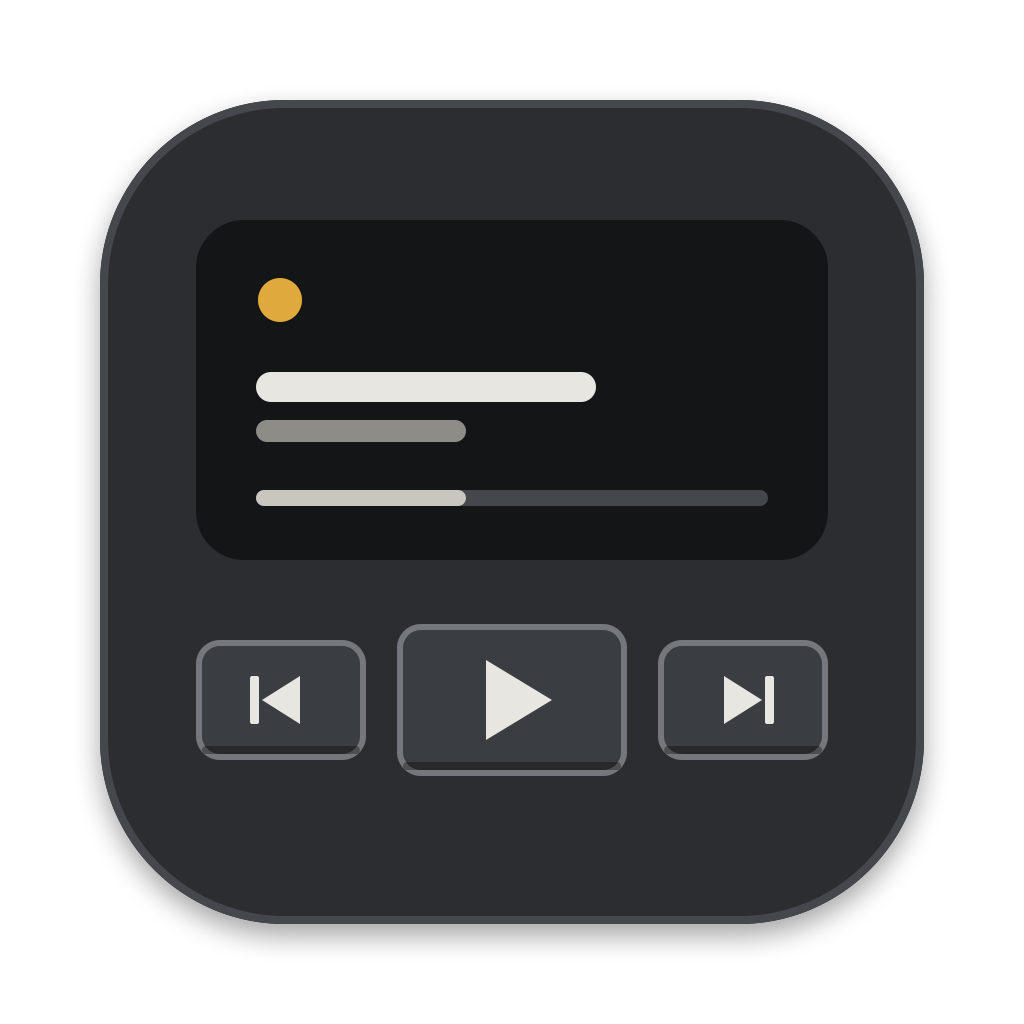
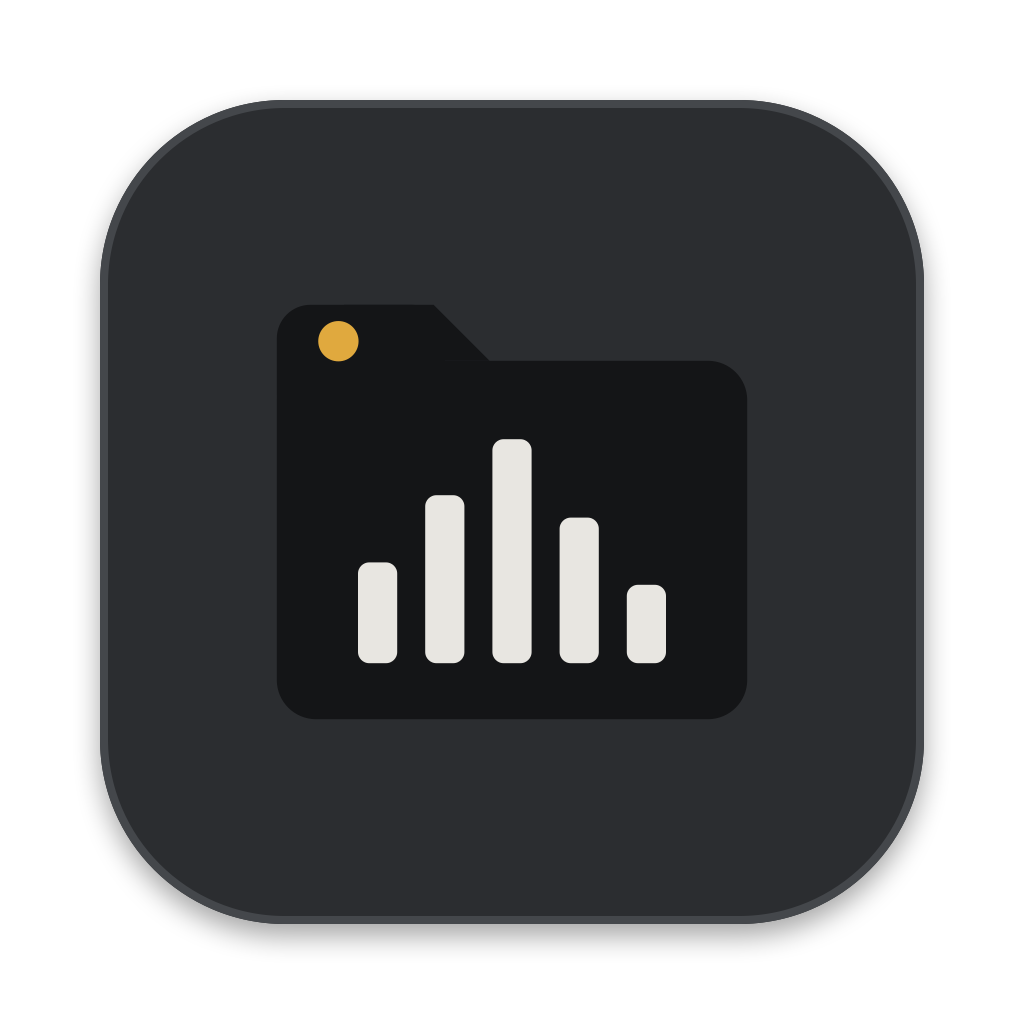
Ícone e logótipo novos: pasta com VU
O ícone passa a ser a pasta com medidor de VU e LED âmbar (proposta C).
make-icons.swift ganha a variante folder (por omissão) e gera o
logótipo com NuVa em IBM Plex Mono, em contornos, para fundo Chumbo e
Alumínio.

Changed region(s): [[0.1875, 0.1875, 0.8125, 0.75], [0.4062, 0.75, 0.5938, 0.7812]]

diff --git a/scripts/make-icons.swift b/scripts/make-icons.swift
@@ -1,12 +1,13 @@
 // Gera o ícone da NuVa a partir das mesmas medidas: PNG (CoreGraphics) e SVG.
-// Uso: swift scripts/make-icons.swift <pasta-de-saída> [variante: device|display|key]
+// Uso: swift scripts/make-icons.swift <pasta-de-saída> [variante: folder|device|display|key] [--all]
+// Corre na raiz do repositório: o logótipo usa Resources/Fonts/IBMPlexMono-Medium.ttf.
 // Cores de docs/design-system/tokens.json (tema Chumbo).
 import AppKit
 import Foundation
 
 let args = CommandLine.arguments
 let out = URL(fileURLWithPath: args.count > 1 ? args[1] : "icon-out")
-let variant = args.count > 2 ? args[2] : "device"
+let variant = args.count > 2 && !args[2].hasPrefix("--") ? args[2] : "folder"
 try? FileManager.default.createDirectory(at: out, withIntermediateDirectories: true)
 
 struct C { static let surface0 = "#1E2023", surface1 = "#2B2D30", display = "#141517", displayInk = "#E8E6E1",
@@ -23,9 +24,50 @@ enum Shape {
 /// Grelha dos ícones do macOS: corpo de 824 com raio 185, centrado em 1024.
 let body = (x: 100.0, y: 100.0, w: 824.0, h: 824.0, r: 185.0)
 
+/// Pasta com medidor de VU, em coordenadas de 0 a 100. A versão pequena tem menos barras e um LED maior.
+func folderGlyph(small: Bool) -> [Shape] {
+    if small {
+        return [
+            .rect(x: 8, y: 12, w: 30, h: 24, r: 7, fill: C.display),
+            .triangle([(20, 12), (38, 12), (50, 24), (20, 24)], fill: C.display),
+            .rect(x: 8, y: 22, w: 84, h: 66, r: 8, fill: C.display),
+            .circle(cx: 21, cy: 20, r: 5.5, fill: C.signal),
+            .rect(x: 20, y: 52, w: 14, h: 26, r: 3, fill: C.displayInk),
+            .rect(x: 43, y: 38, w: 14, h: 40, r: 3, fill: C.displayInk),
+            .rect(x: 66, y: 56, w: 14, h: 22, r: 3, fill: C.displayInk),
+        ]
+    }
+    let bars: [(x: Double, h: Double)] = [(22.5, 18), (34.5, 30), (46.5, 40), (58.5, 26), (70.5, 14)]
+    return [
+        .rect(x: 8, y: 14, w: 30, h: 22, r: 6, fill: C.display),
+        .triangle([(20, 14), (36, 14), (46, 24), (20, 24)], fill: C.display),
+        .rect(x: 8, y: 24, w: 84, h: 64, r: 7, fill: C.display),
+        .circle(cx: 19, cy: 20.5, r: 3.6, fill: C.signal),
+    ] + bars.map { .rect(x: $0.x, y: 78 - $0.h, w: 7, h: $0.h, r: 2, fill: C.displayInk) }
+}
+
+/// Escala e desloca formas de 0–100 para o ícone.
+func place(_ shapes: [Shape], x: Double, y: Double, k: Double) -> [Shape] {
+    func r2(_ v: Double) -> Double { (v * 100).rounded() / 100 }
+    return shapes.map {
+        switch $0 {
+        case let .rect(rx, ry, w, h, r, fill, stroke, sw):
+            return .rect(x: r2(x + rx * k), y: r2(y + ry * k), w: r2(w * k), h: r2(h * k), r: r2(r * k), fill: fill, stroke: stroke, sw: r2(sw * k))
+        case let .circle(cx, cy, r, fill):
+            return .circle(cx: r2(x + cx * k), cy: r2(y + cy * k), r: r2(r * k), fill: fill)
+        case let .triangle(points, fill):
+            return .triangle(points.map { (r2(x + $0.0 * k), r2(y + $0.1 * k)) }, fill: fill)
+        }
+    }
+}
+
 func shapes(small: Bool) -> [Shape] {
     var s: [Shape] = [.rect(x: body.x, y: body.y, w: body.w, h: body.h, r: body.r, fill: C.surface1, stroke: C.line, sw: 8)]
     switch variant {
+    case "folder":
+        // Pasta com VU, centrada no corpo. Em 16 e 32 px, a versão simplificada e maior.
+        s += small ? place(folderGlyph(small: true), x: 192, y: 192, k: 6.4)
+                   : place(folderGlyph(small: false), x: 232, y: 226.4, k: 5.6)
     case "display":
         // Só o display, grande, com LED e barra.
         s += [
@@ -43,7 +85,7 @@ func shapes(small: Bool) -> [Shape] {
             .rect(x: 272, y: 744, w: 480, h: 12, r: 6, fill: "#00000059"),
             .triangle([(450, 452), (450, 672), (632, 562)], fill: C.ink),
         ]
-    default:
+    default:  // "device"
         // Frente do aparelho: display com LED, título e progresso; três teclas por baixo.
         if small {
             s += [
@@ -128,12 +170,13 @@ func png(_ px: Int, name: String, shadow: Bool = true) {
     try! rep.representation(using: .png, properties: [:])!.write(to: out.appendingPathComponent(name))
 }
 
-func svg(small: Bool) -> String {
-    func fillAttr(_ hex: String) -> String {
-        hex.count == 9 ? "fill=\"\(hex.prefix(7))\" fill-opacity=\"\(String(format: "%.2f", Double(UInt8(hex.suffix(2), radix: 16)!) / 255))\"" : "fill=\"\(hex)\""
-    }
+func fillAttr(_ hex: String) -> String {
+    hex.count == 9 ? "fill=\"\(hex.prefix(7))\" fill-opacity=\"\(String(format: "%.2f", Double(UInt8(hex.suffix(2), radix: 16)!) / 255))\"" : "fill=\"\(hex)\""
+}
+
+func svgElements(_ shapes: [Shape], small: Bool) -> String {
     var body = ""
-    for (i, shape) in shapes(small: small).enumerated() {
+    for (i, shape) in shapes.enumerated() {
         switch shape {
         case let .rect(x, y, w, h, r, fill, stroke, sw):
             if let stroke, sw > 0, !(small && i == 0) {
@@ -147,9 +190,51 @@ func svg(small: Bool) -> String {
             body += "  <polygon points=\"\(points.map { "\($0.0),\($0.1)" }.joined(separator: " "))\" \(fillAttr(fill))/>\n"
         }
     }
+    return body
+}
+
+func svg(small: Bool) -> String {
     // Sem margem da grelha no favicon: recorta ao corpo.
     let viewBox = small ? "100 100 824 824" : "0 0 1024 1024"
-    return "<svg xmlns=\"http://www.w3.org/2000/svg\" viewBox=\"\(viewBox)\">\n\(body)</svg>\n"
+    return "<svg xmlns=\"http://www.w3.org/2000/svg\" viewBox=\"\(viewBox)\">\n\(svgElements(shapes(small: small), small: small))</svg>\n"
+}
+
+/// Logótipo: pasta + "NuVa" em IBM Plex Mono Medium, com o texto em contornos.
+func logoSVG(ink: String) -> String {
+    let fontURL = URL(fileURLWithPath: "Resources/Fonts/IBMPlexMono-Medium.ttf") as CFURL
+    let desc = (CTFontManagerCreateFontDescriptorsFromURL(fontURL) as! [CTFontDescriptor])[0]
+    let font = CTFontCreateWithFontDescriptor(desc, 66, nil)
+    let text = Array("NuVa".utf16)
+    var glyphs = [CGGlyph](repeating: 0, count: text.count)
+    CTFontGetGlyphsForCharacters(font, text, &glyphs, text.count)
+    var advances = [CGSize](repeating: .zero, count: glyphs.count)
+    CTFontGetAdvancesForGlyphs(font, .horizontal, glyphs, &advances, glyphs.count)
+    // Texto centrado na altura da pasta (14 a 88), afastado 32 da borda direita.
+    let baseline = 51 + CTFontGetCapHeight(font) / 2
+    var x = 124.0
+    var d = ""
+    for (g, adv) in zip(glyphs, advances) {
+        var t = CGAffineTransform(translationX: x, y: baseline).scaledBy(x: 1, y: -1)
+        if let path = CTFontCreatePathForGlyph(font, g, &t) {
+            path.applyWithBlock { el in
+                let p = el.pointee.points
+                func f(_ q: CGPoint) -> String { String(format: "%.2f %.2f", q.x, q.y) }
+                switch el.pointee.type {
+                case .moveToPoint: d += "M\(f(p[0]))"
+                case .addLineToPoint: d += "L\(f(p[0]))"
+                case .addQuadCurveToPoint: d += "Q\(f(p[0])) \(f(p[1]))"
+                case .addCurveToPoint: d += "C\(f(p[0])) \(f(p[1])) \(f(p[2]))"
+                case .closeSubpath: d += "Z"
+                @unknown default: break
+                }
+            }
+        }
+        x += adv.width
+    }
+    let w = Int(ceil(x)) - 8 + 4
+    return "<svg xmlns=\"http://www.w3.org/2000/svg\" viewBox=\"8 12 \(w) 78\">\n"
+        + svgElements(folderGlyph(small: false), small: false)
+        + "  <path d=\"\(d)\" fill=\"\(ink)\"/>\n</svg>\n"
 }
 
 /// ICO com PNGs embebidos (aceite por todos os browsers atuais).
@@ -175,6 +260,9 @@ func ico(_ sizes: [Int], name: String) {
 png(1024, name: "icon-1024.png")
 try! svg(small: false).write(to: out.appendingPathComponent("icon.svg"), atomically: true, encoding: .utf8)
 try! svg(small: true).write(to: out.appendingPathComponent("favicon.svg"), atomically: true, encoding: .utf8)
+// Logótipo para fundos escuros (Chumbo) e claros (Alumínio).
+try! logoSVG(ink: C.displayInk).write(to: out.appendingPathComponent("logo-chumbo.svg"), atomically: true, encoding: .utf8)
+try! logoSVG(ink: "#1E2023").write(to: out.appendingPathComponent("logo-aluminio.svg"), atomically: true, encoding: .utf8)
 if args.contains("--all") {
     // AppIcon.appiconset do macOS
     let set = out.appendingPathComponent("AppIcon.appiconset")
